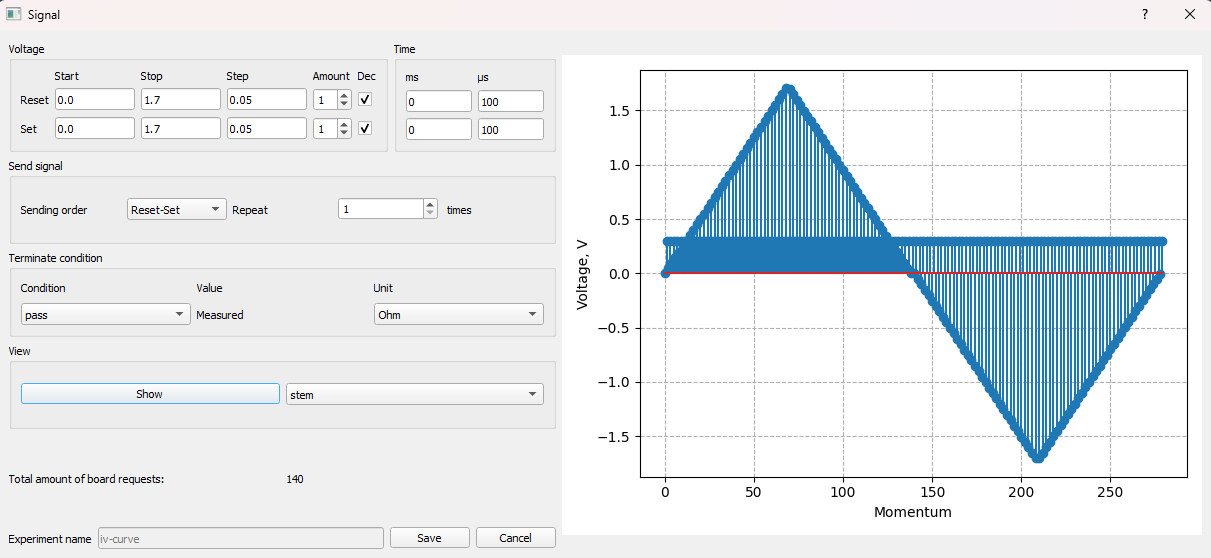
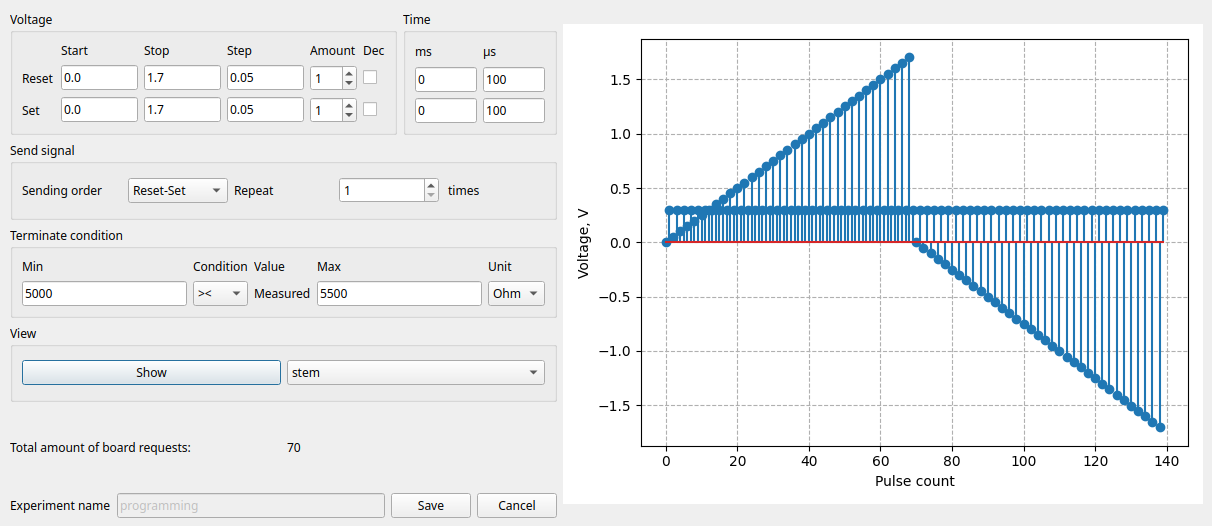
docs: signal window

diff --git a/manager/service/plots.py b/manager/service/plots.py
@@ -153,7 +153,7 @@ def plot_input_signal_stem(parent,
         else:
             ax.plot(result)
         ax.set_ylabel('Voltage, V')
-        ax.set_xlabel('Momentum')
+        ax.set_xlabel('Pulse count')
         ax.grid(True, linestyle='--')
         if not shadow:
             plt.show()
@@ -207,7 +207,7 @@ def plot_with_save(parent,
     if mode == 'stem':
         if result_stem:
             plt.stem(result_stem)
-            plt.xlabel('Momentum')
+            plt.xlabel('Pulse count')
         else:
             plt.plot(result_stem)
             plt.xlabel('Time, mcs')

diff --git a/docs/README.md b/docs/README.md
@@ -77,21 +77,51 @@ Experiment configuration window can be opened via [Cell info](#working-with-indi
 
 The window allows you to create a new experiment with a cell. It is made up of tickets &mdash; preset experiments, such as iv-curve, endurance, programming, etc. You can **add** multiple tickets from left side of the window to the experiment plan (**Add to plan** button), or you can create a new ticket (**New** button in the bottom left corner). The **Load** button on the right side of the window allows you to load a ticket that was previously applied to one of the cells. You can also directly **import** tickets from a *.json* file.
 You can enter the experiment **name** in the lower right part of the window.
+
+Preset tickets, available by default, are:
+
+- *blank* &mdash; empty ticket that all.
+- *endurance* &mdash; standart endurance test for RRAM cells.
+- *iv-curve*, *iv-curve-set*, *iv-curve-reset*, *iv-curve-reversed* &mdash; tickets for measuring pulsed IV-curves.
+- *measure* &mdash; ticket for measuring cell resistance.
+- *programming*, *programming-reversed* &mdash; for programming specific resistance (see [Terminate condition](#terminate-condition)).
+- *retention* &mdash; ticket for measuring the retention of the resistive states.
+- *plast-dep-pot*, *plast-pot-dep* &mdash; tickets for studying potentiation and depression behaviours of the memristive cells.
+
 By double-clicking the ticket on the right side of the window (or pressing **Edit** button), you can adjust the ticket parameters (voltage applied to the cell, number of cycles, etc.): the [Signal editing window](#signal-editing-window) opens.
+**Apply to the cell** button opens [Apply window](#applying-the-experiment) where you can start the experiment.
 
-###### Signal editing window:
-When editing a signal or creating a new one, the signal editing window opens. Each signal consists of two parts - an adjustable pulse of action on the cell, and a pulse of reading the state of the cell. Pulse of interaction has settings of amplitude, duration, and order of signal supply in case of its multiplicity. The signal can be either forward (reset) or reverse (set). It is possible to set the reason for the interruption of the signal and preview its graph. Start, stop and step are indicated in volts.
-For example, to remove the VAC of the cell, the following parameters are indicated:
+#### Signal editing window
 
-|        |Start| Stop| Step | Quantity |Decrement| MS| ISS |
-|--------|-----|-----|------|----------|---------|---|-----|
-| Direct | 0.0 | 1.6 | 0.05 |     1    |    +    | 0 | 100 |
-|  Back  | 0.0 | 1.2 | 0.05 |     1    |    +    | 0 | 100 |
+The signal window is opened via [Experiment plan](#configuring-your-experiment) window, it allows you to set the signal which is applied to the memristive cell.
 
-*Signaling: straight-back; Repeat: 1 time*
+![Signal Setup Window](assets/signal.png)
+
+Set and reset signals can be controlled independently in the top half of the window: the pulse amplitudes (in volts) and widths (**Time: ms and μs**) can be adjusted. The **Amound** field specifies the amount of set or reset sweeps in a set-reset cycle, the **Repeat** fields specifies the total amount of set-reset cycles. If the **Dec** flag is off, the voltage sweeps from **Start** to **Stop** with the specified **Step**. If the **Dec** flag is on, the voltage also sweeps from **Stop** to **Start**.
+For example, measuring 10 IV curves requires the following parameters:
+
+|            |Start| Stop| Step | Quantity |Decrement| Time, ms| Time, μs |
+|------------|-----|-----|------|----------|---------|---------|----------|
+| **Reset**  | 0.0 | 1.6 | 0.05 |     1    |    +    |    0    |    100   |
+|  **Set**   | 0.0 | 1.2 | 0.05 |     1    |    +    |    0    |    100   |
+
+**Sending order:** Reset-Set; **Repeat**: 10 times
+
+##### Standart pulse sequence
+
+Each measurement point consists of two parts &mdash; a voltage pulse with the adjustable amplitude for changing the resistive state of the cell, and a read pulse that always follows it. The amplitude of the reading pulse is fixed in the *settings.ini* file.
+During the experiment, the resistive state of the cell is controlled only via read pulses with constant amplitude.
+
+##### Terminate condition
+
+The terminate condition can be specified in the [Signal editing window](#signal-editing-window) and ***it is checked after every measurement point is acquired***. The **pass** condition turns the terminator off. For other condition values, you need to enter the resistance in the **Value** field (or **Min** and **Max** fields), and it will be compared to the acquired resistance.
+For example, the [Signal editing window figure](#signal-editing-window) shows standart terminate condition for programming resistive states via ***write-verify algorithm***: the **condition** is set to **><**. The experiment (for this ticket only) will automatically stop when the resistance of the memory cell will be from 5000 to 5500 Ohm.
+You can increase the amount of set-reset cycles to ensure that the memristive cell reaches the desired resistance range.
+You can add other tickets after the programming ticket (for example, a retention ticket) to create an autonomous experiment.
+
+### Applying the experiment
 
 ###### Signal setup result:
-![Signal Setup Window](assets/signal.png)
 
 To run the created experiment, click the Apply To Cell button to apply it to the selected cell.
 After that, the experiment window will open. It contains:
